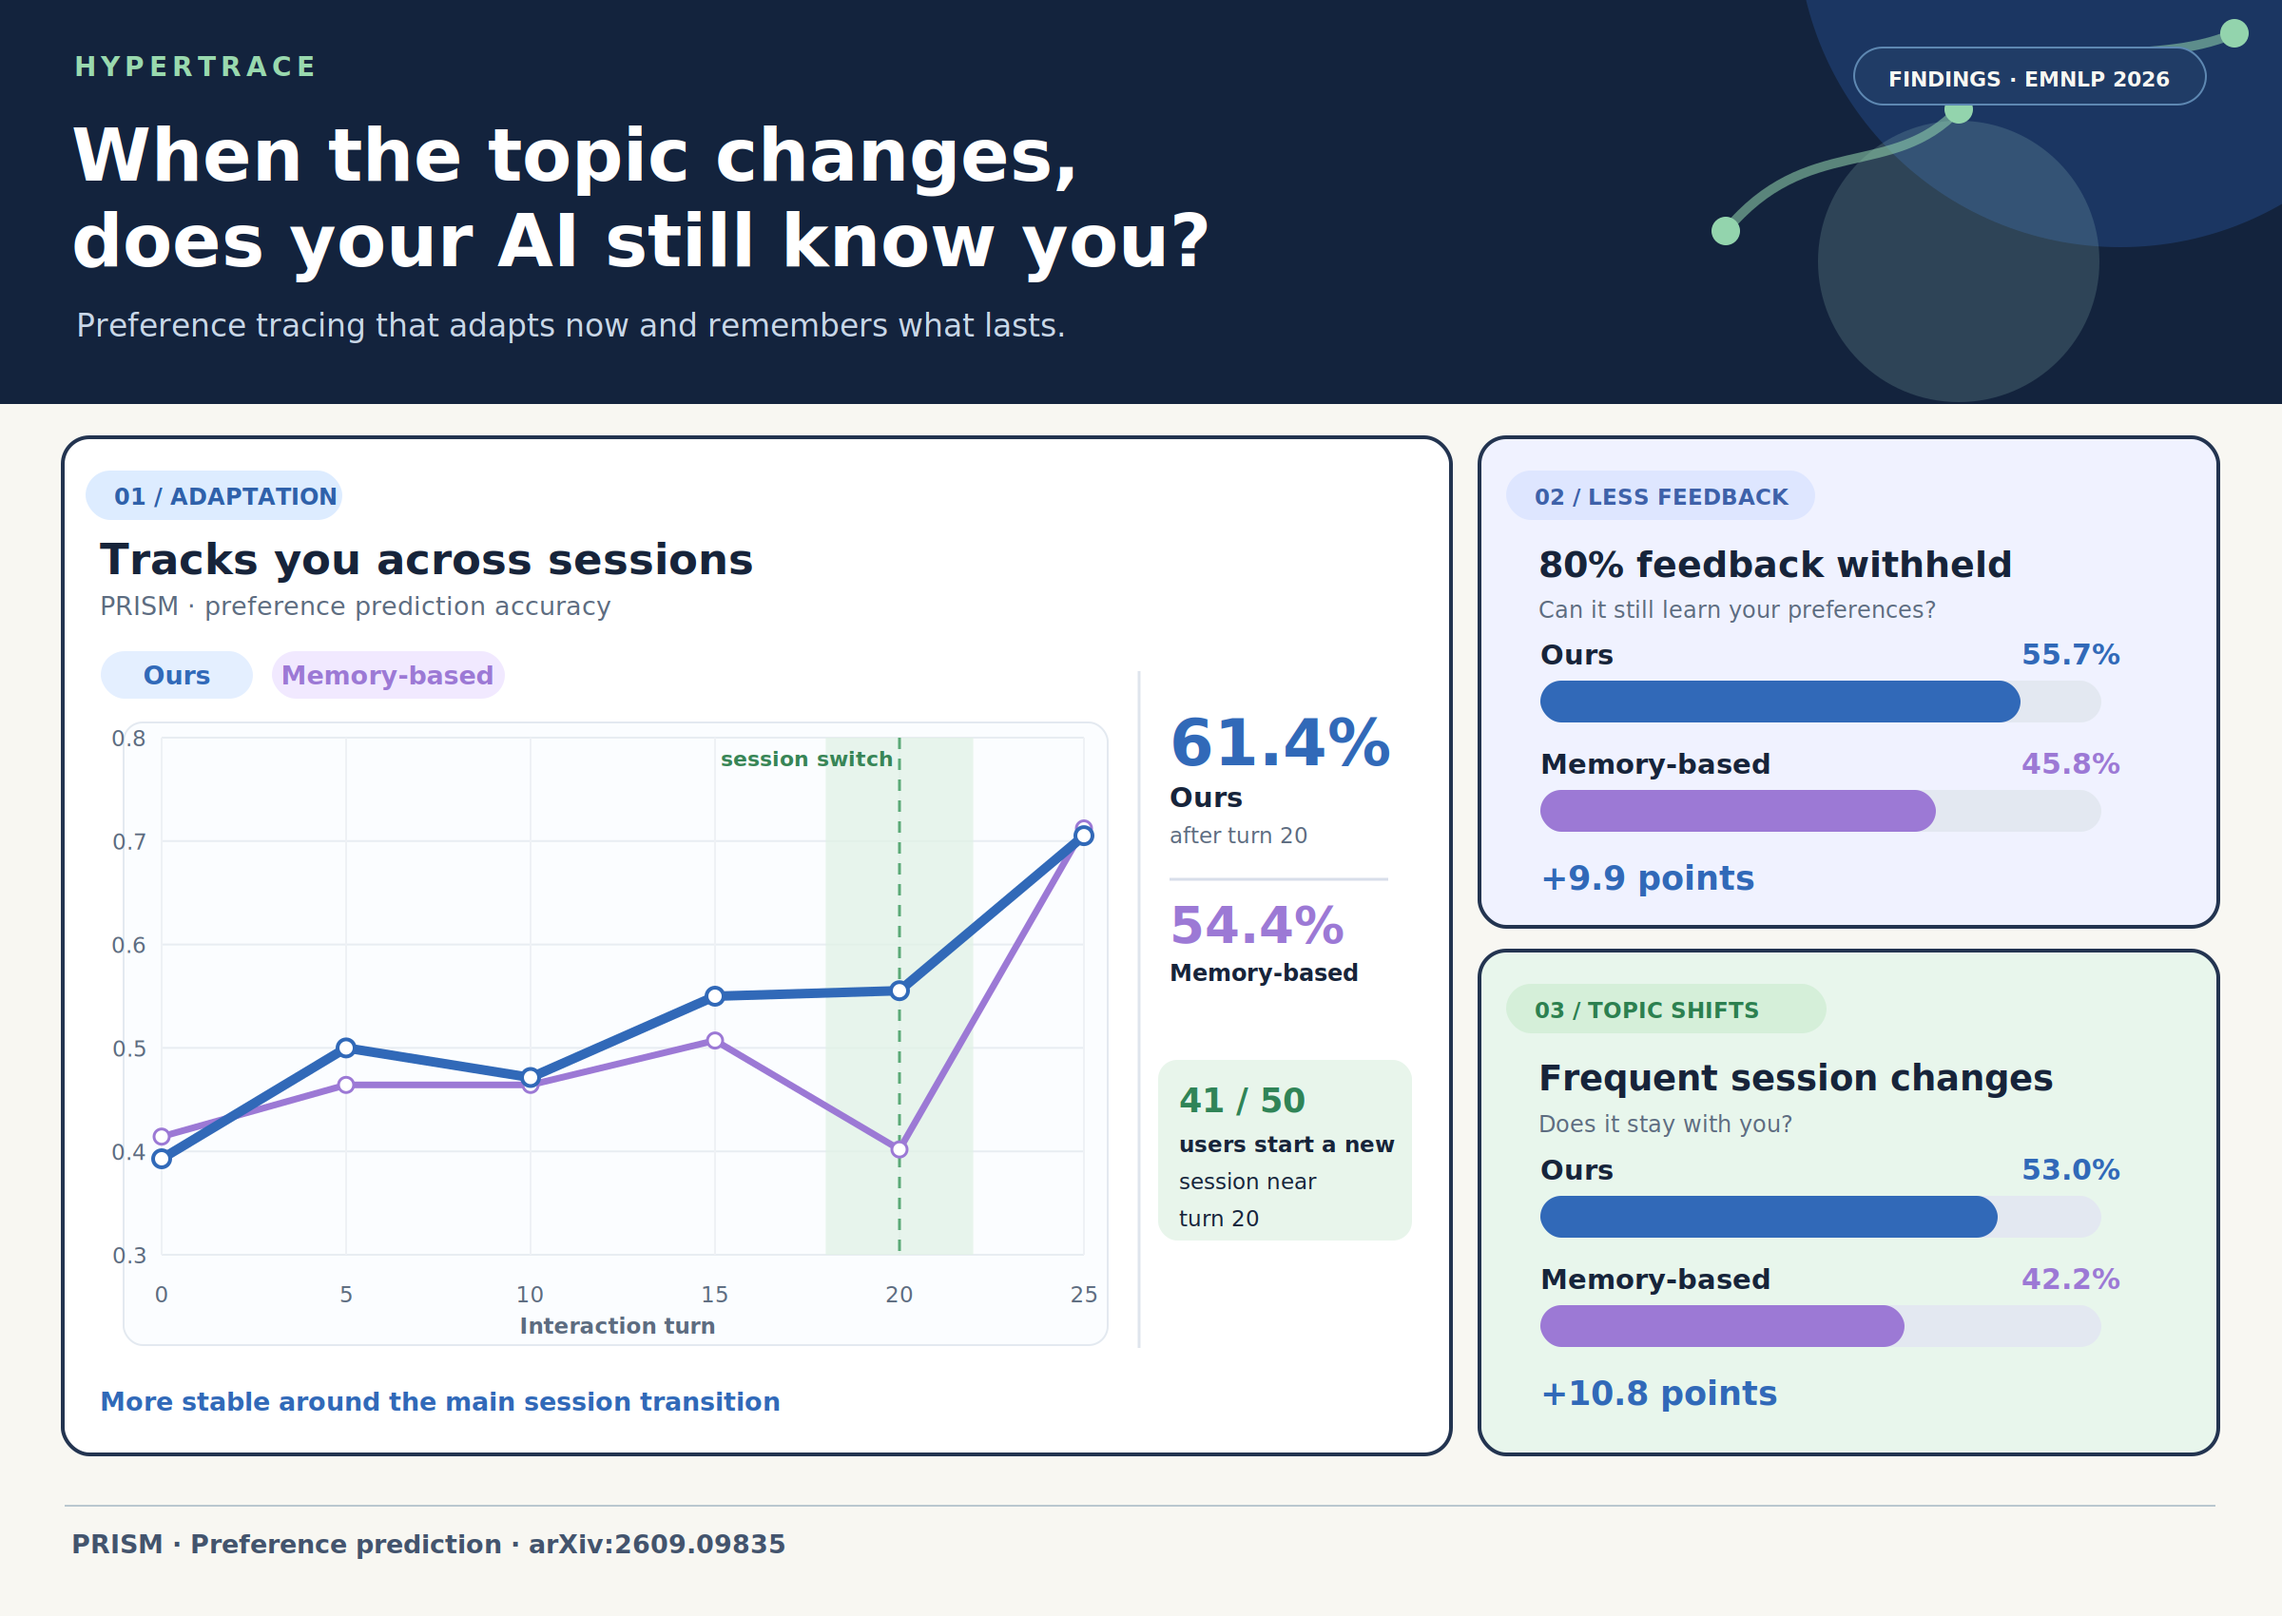
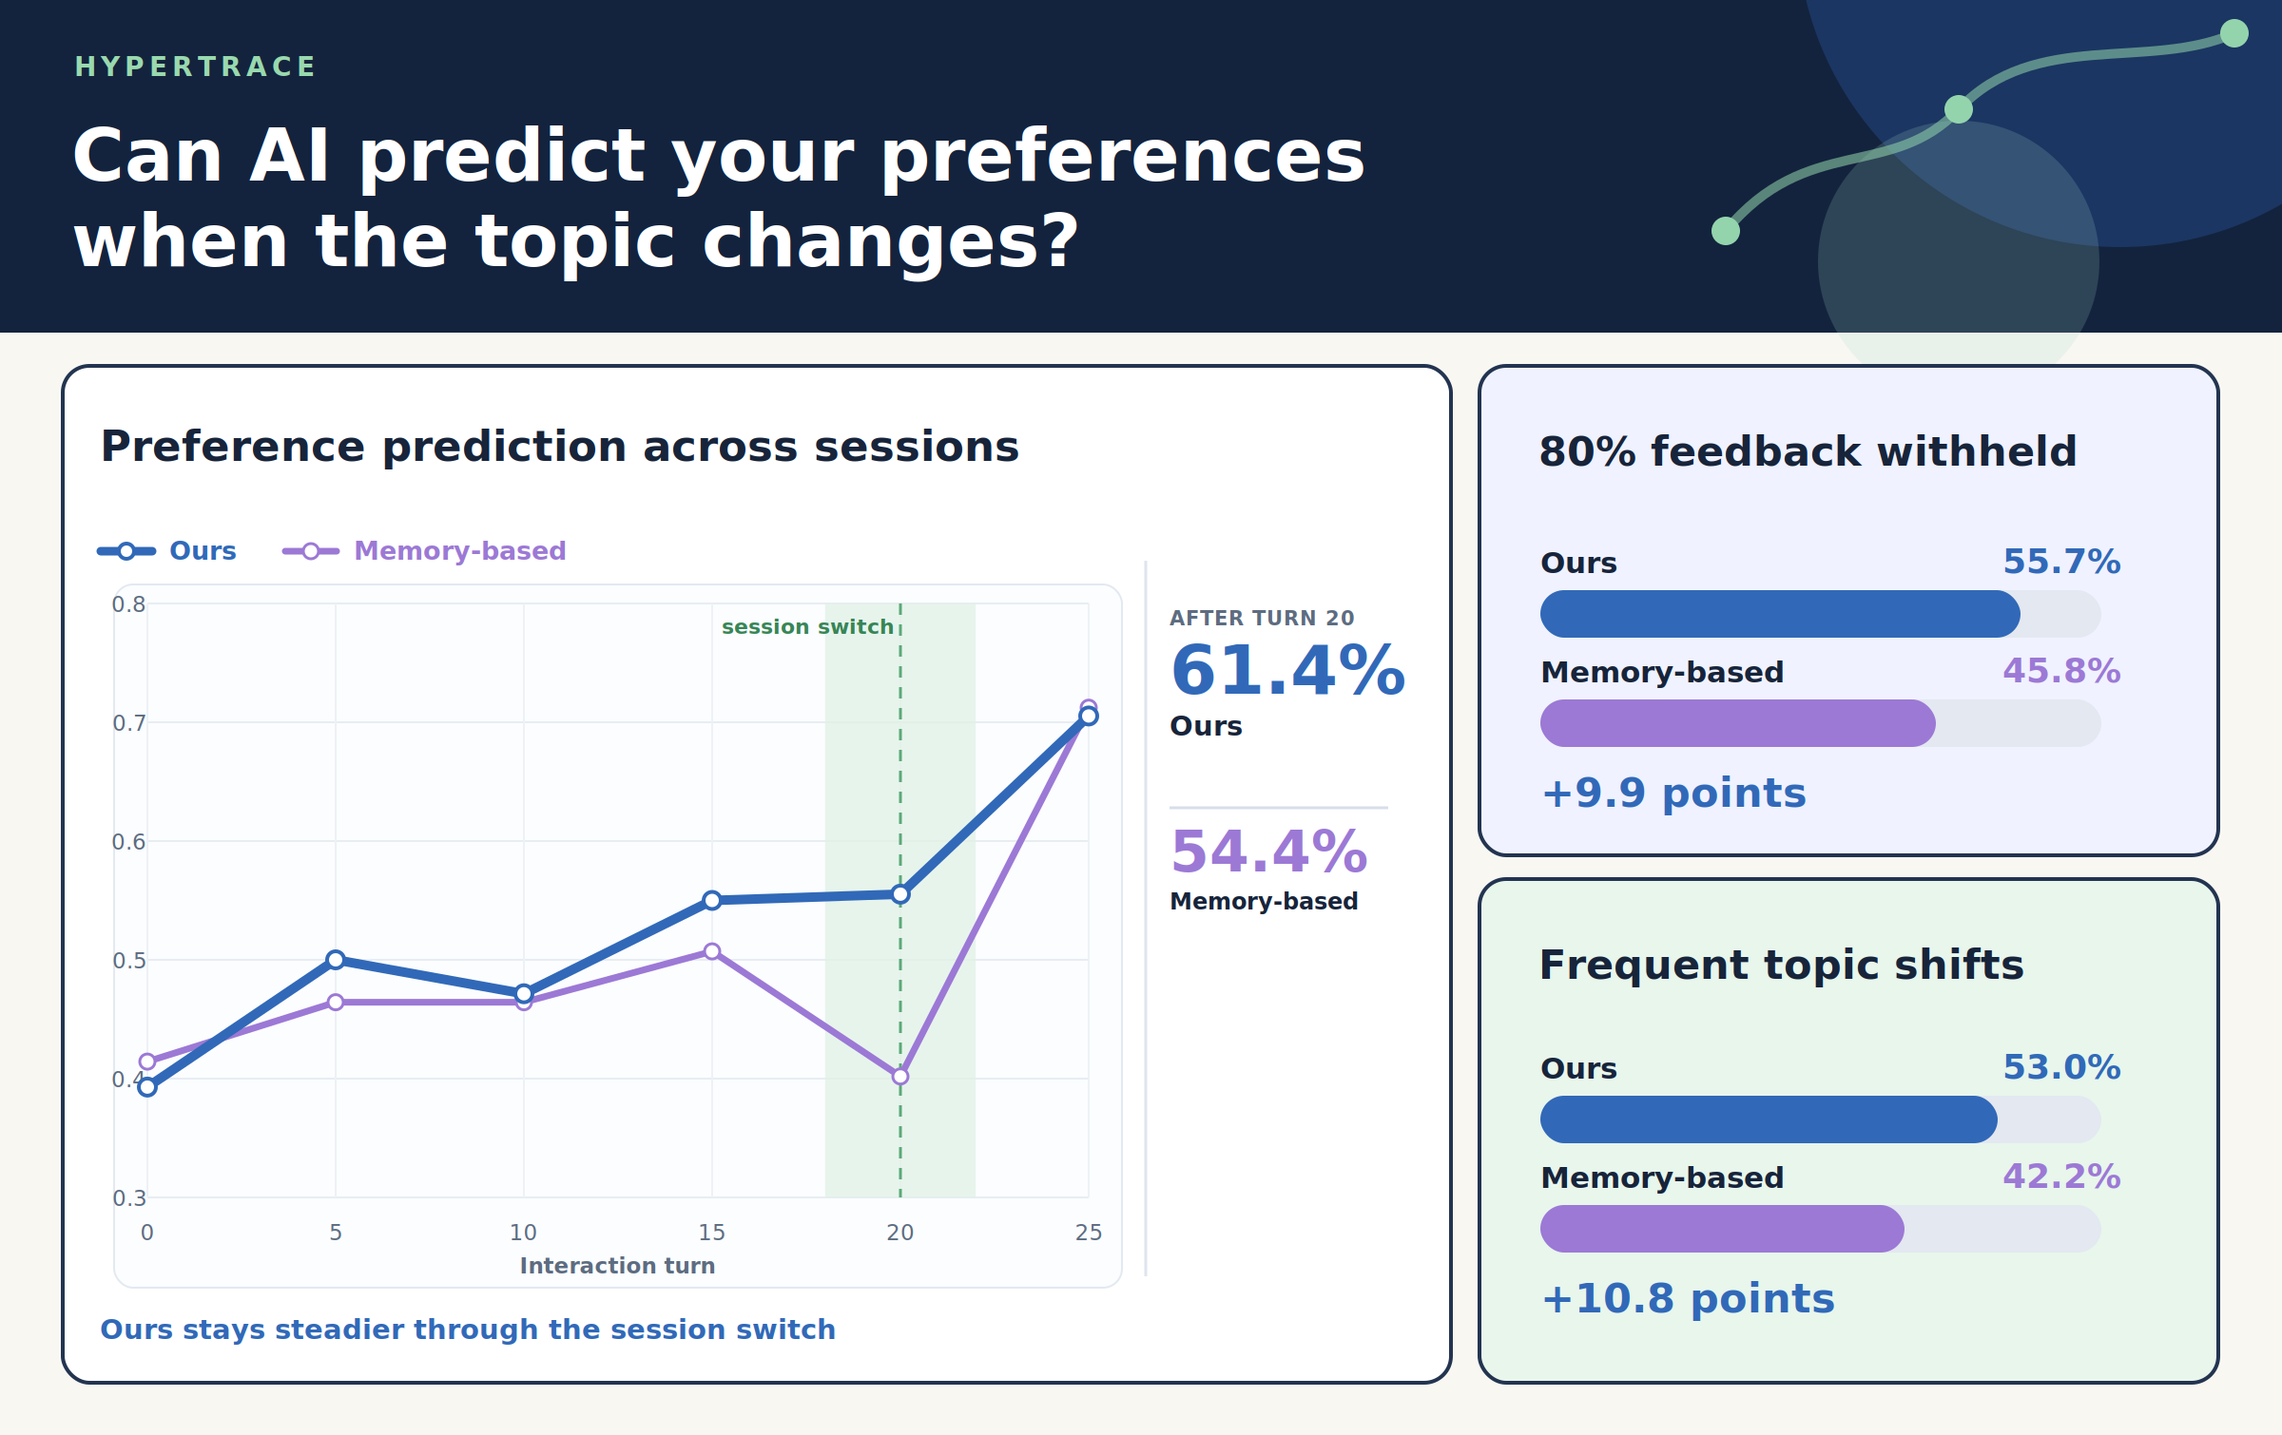
Refine HyperTrace launch graphic around results

diff --git a/assets/promo/render.py b/assets/promo/render.py
@@ -17,9 +17,9 @@ def rect(x, y, w, h, fill, r=26, stroke='#263956', sw=3):
     return f'<rect x="{x}" y="{y}" width="{w}" height="{h}" rx="{r}" fill="{fill}" stroke="{stroke}" stroke-width="{sw}"/>'
 
 
-parts = ['''<svg xmlns="http://www.w3.org/2000/svg" width="2400" height="1700" viewBox="0 0 2400 1700">
-<rect width="2400" height="1700" fill="#f8f7f2"/>
-<rect width="2400" height="425" fill="#13233d"/>
+parts = ['''<svg xmlns="http://www.w3.org/2000/svg" width="2400" height="1510" viewBox="0 0 2400 1510">
+<rect width="2400" height="1510" fill="#f8f7f2"/>
+<rect width="2400" height="350" fill="#13233d"/>
 <circle cx="2230" cy="-80" r="340" fill="#244c8a" opacity=".48"/>
 <circle cx="2060" cy="275" r="148" fill="#a9d9cd" opacity=".18"/>
 <path d="M1815 243 C1900 140 1990 190 2060 115 C2140 30 2260 75 2350 35" fill="none" stroke="#93d4ad" stroke-width="10" opacity=".55"/>
@@ -27,42 +27,28 @@ parts = ['''<svg xmlns="http://www.w3.org/2000/svg" width="2400" height="1700" v
 ''']
 parts += [
     text(78, 80, 'HYPERTRACE', 28, 900, '#99d9ae', 'letter-spacing="5"'),
-    rect(1950, 50, 370, 60, '#203c66', 30, '#5e88b2', 2),
-    text(2135, 91, 'FINDINGS · EMNLP 2026', 22, 800, '#f8f7f2', 'text-anchor="middle"'),
-    text(75, 190, 'When the topic changes,', 76, 900, '#ffffff'),
-    text(75, 280, 'does your AI still know you?', 76, 900, '#ffffff'),
-    text(80, 354, 'Preference tracing that adapts now and remembers what lasts.', 33, 500, '#c9d7e8'),
+    text(75, 190, 'Can AI predict your preferences', 76, 900, '#ffffff'),
+    text(75, 280, 'when the topic changes?', 76, 900, '#ffffff'),
+    '<g transform="translate(0,-75)">',
     rect(66, 460, 1460, 1070, '#ffffff', 28, '#233450', 4),
     rect(1556, 460, 777, 515, '#f0f2ff', 28, '#233450', 4),
     rect(1556, 1000, 777, 530, '#e8f6ec', 28, '#233450', 4),
-    rect(90, 495, 270, 52, '#ddecff', 26, 'none', 0),
-    text(120, 531, '01 / ADAPTATION', 24, 800, '#2f61aa'),
-    text(105, 604, 'Tracks you across sessions', 45, 800),
-    text(105, 647, 'PRISM · preference prediction accuracy', 27, 500, MUTED),
-    rect(106, 685, 160, 50, '#e4efff', 25, 'none', 0),
-    text(186, 720, 'Ours', 27, 800, BLUE, 'text-anchor="middle"'),
-    rect(286, 685, 245, 50, '#f1e9ff', 25, 'none', 0),
-    text(408, 720, 'Memory-based', 27, 800, PURPLE, 'text-anchor="middle"'),
-    '<line x1="1198" y1="706" x2="1198" y2="1418" stroke="#dfe5ed" stroke-width="3"/>',
-    text(1230, 805, '61.4%', 67, 900, BLUE),
+    text(105, 560, 'Preference prediction across sessions', 45, 800),
+    '<line x1="106" y1="655" x2="160" y2="655" stroke="#3169b8" stroke-width="9" stroke-linecap="round"/>',
+    '<circle cx="133" cy="655" r="8" fill="#fff" stroke="#3169b8" stroke-width="4"/>',
+    text(178, 664, 'Ours', 27, 800, BLUE),
+    '<line x1="300" y1="655" x2="354" y2="655" stroke="#9c79d5" stroke-width="7" stroke-linecap="round"/>',
+    '<circle cx="327" cy="655" r="8" fill="#fff" stroke="#9c79d5" stroke-width="3"/>',
+    text(372, 664, 'Memory-based', 27, 800, PURPLE),
+    '<line x1="1205" y1="665" x2="1205" y2="1418" stroke="#dfe5ed" stroke-width="3"/>',
+    text(1230, 733, 'AFTER TURN 20', 21, 800, MUTED, 'letter-spacing="1"'),
+    text(1230, 805, '61.4%', 72, 900, BLUE),
     text(1230, 849, 'Ours', 29, 800),
-    text(1230, 887, 'after turn 20', 23, 500, MUTED),
     '<line x1="1230" y1="925" x2="1460" y2="925" stroke="#d8deea" stroke-width="3"/>',
-    text(1230, 992, '54.4%', 53, 800, PURPLE),
+    text(1230, 992, '54.4%', 60, 800, PURPLE),
     text(1230, 1032, 'Memory-based', 24, 700),
-    rect(1218, 1115, 267, 190, '#e8f5eb', 20, 'none', 0),
-    text(1240, 1170, '41 / 50', 35, 900, '#308457'),
-    text(1240, 1212, 'users start a new', 23, 700),
-    text(1240, 1251, 'session near', 23, 500),
-    text(1240, 1290, 'turn 20', 23, 500),
-    rect(1584, 495, 325, 52, '#dee6ff', 26, 'none', 0),
-    text(1614, 531, '02 / LESS FEEDBACK', 23, 800, '#3e61a9'),
-    text(1618, 607, '80% feedback withheld', 38, 800),
-    text(1618, 650, 'Can it still learn your preferences?', 24, 500, MUTED),
-    rect(1584, 1035, 337, 52, '#d5efd9', 26, 'none', 0),
-    text(1614, 1071, '03 / TOPIC SHIFTS', 23, 800, '#2d8050'),
-    text(1618, 1147, 'Frequent session changes', 37, 800),
-    text(1618, 1191, 'Does it stay with you?', 24, 500, MUTED),
+    text(1618, 565, '80% feedback withheld', 43, 800),
+    text(1618, 1105, 'Frequent topic shifts', 43, 800),
 ]
 
 # The six y coordinates for each series come from the paper's original Figure 3 SVG.
@@ -73,10 +59,10 @@ raw = {
     'memory': [446.15333, 493.7241, 493.7241, 534.4991, 434.3284, 729.65176],
 }
 values = {k: [.3 + (y - 337.4201) * .5 / (813.1279 - 337.4201) for y in ys] for k, ys in raw.items()}
-px0, px1, py0, py1 = 170, 1140, 1320, 776
+px0, px1, py0, py1 = 155, 1145, 1335, 710
 X = lambda turn: px0 + (turn / 25) * (px1 - px0)
 Y = lambda value: py0 - (value - .3) / .5 * (py0 - py1)
-parts += [rect(130, 760, 1035, 655, '#fbfdff', 20, '#e3e9f0', 2)]
+parts += [rect(120, 690, 1060, 740, '#fbfdff', 20, '#e3e9f0', 2)]
 for tick in [.3, .4, .5, .6, .7, .8]:
     yy = Y(tick)
     parts += [f'<line x1="{px0}" y1="{yy:.1f}" x2="{px1}" y2="{yy:.1f}" stroke="#e8edf2" stroke-width="2"/>',
@@ -84,11 +70,11 @@ for tick in [.3, .4, .5, .6, .7, .8]:
 for turn in turns:
     xx = X(turn)
     parts += [f'<line x1="{xx:.1f}" y1="{py0}" x2="{xx:.1f}" y2="{py1}" stroke="#eef1f5" stroke-width="2"/>',
-              text(xx, 1370, str(turn), 23, 500, MUTED, 'text-anchor="middle"')]
+              text(xx, 1380, str(turn), 23, 500, MUTED, 'text-anchor="middle"')]
 parts += [
     f'<rect x="{X(18):.1f}" y="{py1}" width="{X(22)-X(18):.1f}" height="{py0-py1}" fill="#dff1e5" opacity=".72"/>',
     f'<line x1="{X(20):.1f}" y1="{py1}" x2="{X(20):.1f}" y2="{py0}" stroke="#5ba977" stroke-width="3" stroke-dasharray="12 10"/>',
-    text(X(20)-8, 806, 'session switch', 22, 800, '#388556', 'text-anchor="end"'),
+    text(X(20)-8, 742, 'session switch', 22, 800, '#388556', 'text-anchor="end"'),
 ]
 for key, color, width in [('memory', PURPLE, 7), ('ours', BLUE, 10)]:
     coords = [(X(turn), Y(value)) for turn, value in zip(turns, values[key])]
@@ -97,25 +83,23 @@ for key, color, width in [('memory', PURPLE, 7), ('ours', BLUE, 10)]:
     for x, y in coords:
         parts.append(f'<circle cx="{x:.1f}" cy="{y:.1f}" r="{9 if key=="ours" else 8}" fill="#fff" stroke="{color}" stroke-width="{4 if key=="ours" else 3}"/>')
 parts += [
-    text(650, 1403, 'Interaction turn', 23, 600, MUTED, 'text-anchor="middle"'),
-    text(105, 1484, 'More stable around the main session transition', 27, 700, '#3169b8'),
+    text(650, 1415, 'Interaction turn', 23, 600, MUTED, 'text-anchor="middle"'),
+    text(105, 1484, 'Ours stays steadier through the session switch', 29, 800, '#3169b8'),
 ]
 
 
 def bars(y, ours, memory, gain):
     x, width = 1620, 590
     for label, value, color, yy in [('Ours', ours, BLUE, y), ('Memory-based', memory, PURPLE, y+115)]:
-        parts.extend([text(x, yy-17, label, 29, 800),
-                      text(2230, yy-17, f'{value*100:.1f}%', 30, 900, color, 'text-anchor="end"'),
-                      rect(x, yy, width, 44, '#e3e8f1', 22, 'none', 0),
-                      rect(x, yy, round(value/.65*width), 44, color, 22, 'none', 0)])
-    parts.append(text(x, y+220, f'+{gain:.1f} points', 35, 900, BLUE))
+        parts.extend([text(x, yy-18, label, 31, 800),
+                      text(2230, yy-18, f'{value*100:.1f}%', 36, 900, color, 'text-anchor="end"'),
+                      rect(x, yy, width, 50, '#e3e8f1', 25, 'none', 0),
+                      rect(x, yy, round(value/.65*width), 50, color, 25, 'none', 0)])
+    parts.append(text(x, y+228, f'+{gain:.1f} points', 43, 900, BLUE))
 
-bars(716, .5567, .4582, 9.9)
-bars(1258, .5304, .4224, 10.8)
-parts += ['<line x1="68" y1="1584" x2="2330" y2="1584" stroke="#b9c7cf" stroke-width="2"/>',
-          text(75, 1634, 'PRISM  ·  Preference prediction  ·  arXiv:2609.09835', 27, 600, '#43546d'),
-          '</svg>']
+bars(696, .5567, .4582, 9.9)
+bars(1228, .5304, .4224, 10.8)
+parts += ['</g>', '</svg>']
 
 (HERE / 'hypertrace-results.svg').write_text('\n'.join(parts))
 try:

diff --git a/assets/promo/x-thread.md b/assets/promo/x-thread.md
@@ -2,9 +2,9 @@
 
 **Post 1**
 
-Your AI remembers what you said. But can it tell what's *you* from what was just today's task?
+Can an AI keep predicting what you prefer when the topic changes—or most feedback disappears?
 
-We built HyperTrace to trace preferences across topic shifts—no model retraining. On PRISM, it beats a memory-based method even with sparse feedback. 🧵
+We tested this on PRISM. HyperTrace stays steadier through session changes and beats a memory-based method in both stress tests. 🧵
 
 [Upload: results graphic]
 [Upload: head graphic]
@@ -12,7 +12,7 @@ We built HyperTrace to trace preferences across topic shifts—no model retraini
 
 **Post 2**
 
-Instead of locking you into one profile, HyperTrace weighs multiple hypotheses about current intent and lasting preferences, updating them as you choose.
+A choice may reflect today's task or a lasting preference. HyperTrace keeps several explanations in play, updating them with new choices instead of locking you into one profile. No retraining.
 
 Paper: https://arxiv.org/abs/2609.09835
 Code: https://github.com/jiseshen/HyperTrace
